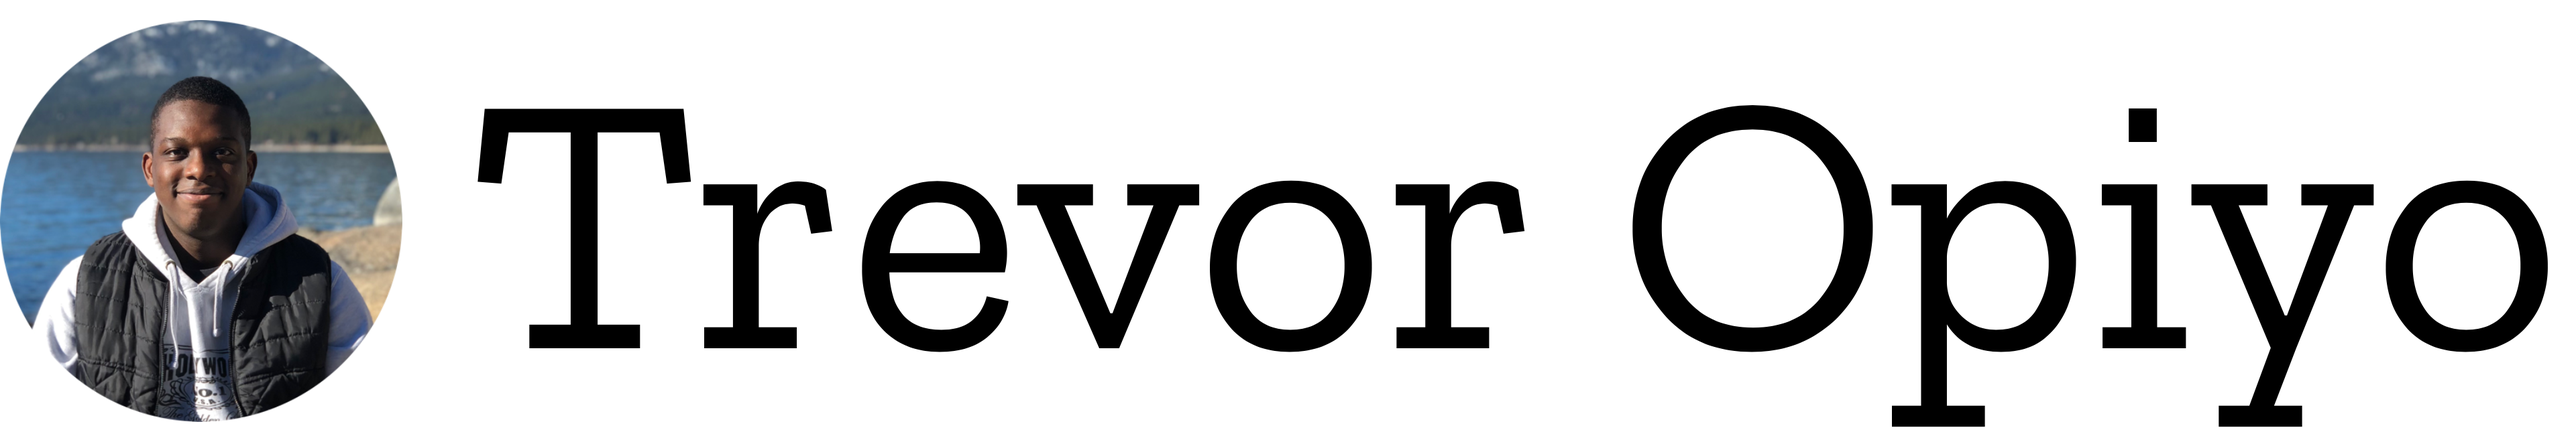
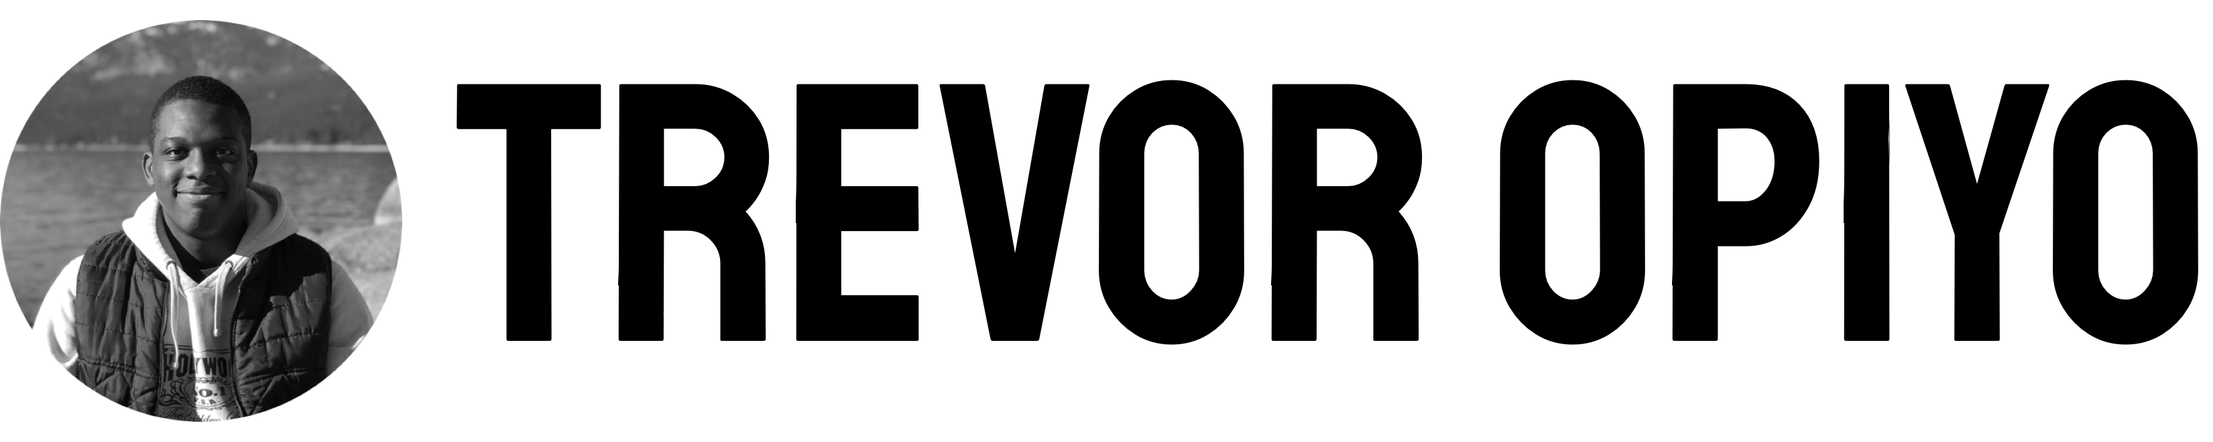
updated header to fit scheme

diff --git a/index.html b/index.html
@@ -29,7 +29,7 @@
 			}
 		</style>
 	</head>
-<a class="style" href="https://trevoropiyo.com">
+<a class="style" href="index.html">
 	<img src="header.png"  width="500"/>
 </a>
 <p class="style">
@@ -54,7 +54,7 @@
 </p>
 <hr/>
 <h2 class="style" id="setting-up-my-website">
-	<a href="https://trevoropiyo.com/setting-up-my-website.html" alt="">
+	<a href="setting-up-my-website.html" alt="">
 		Setting up my Website
 	</a>
 </h2>

diff --git a/setting-up-my-website.html b/setting-up-my-website.html
@@ -26,7 +26,7 @@
 			}
 		</style>
 	</head>
-<a class="style" href="https://trevoropiyo.com">
+<a class="style" href="index.html">
 		<img src="header.png"  width="500"/>
 </a>
 <p class="style">
